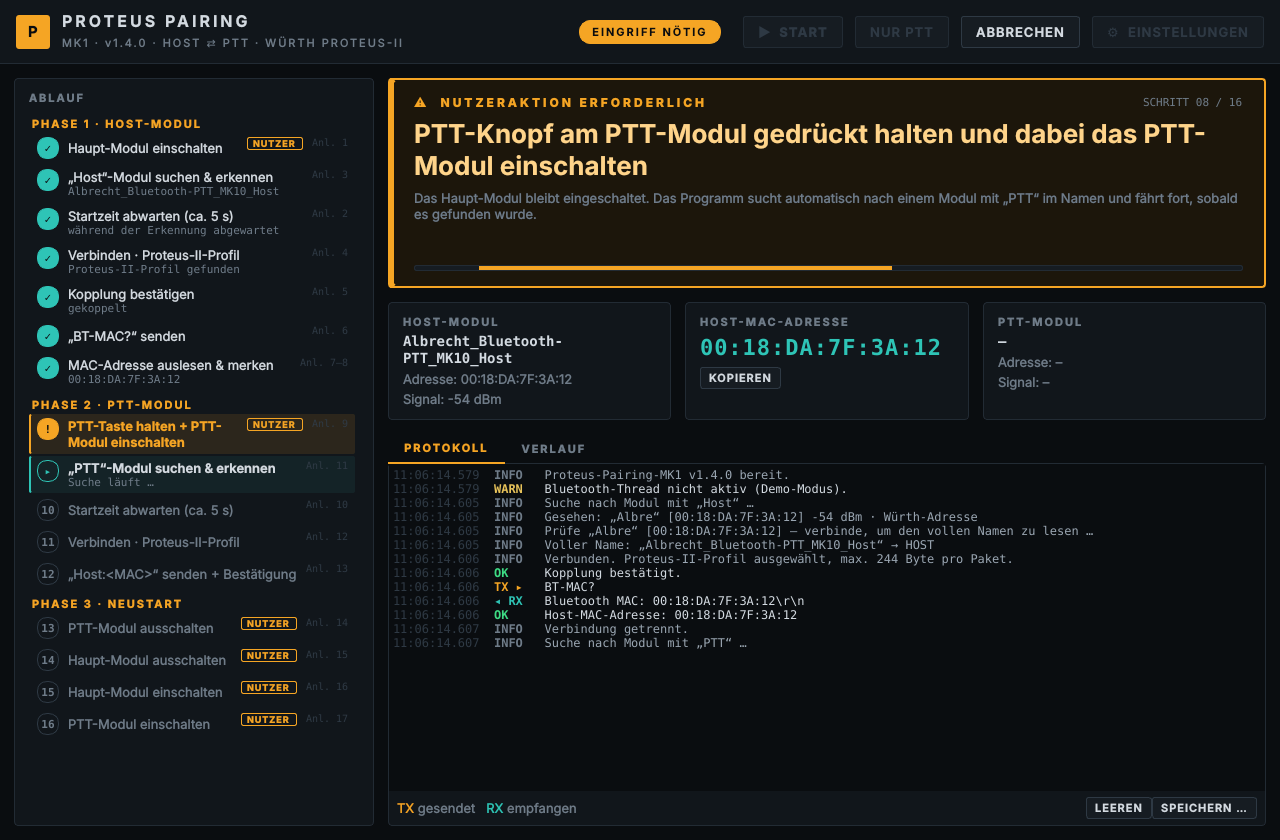
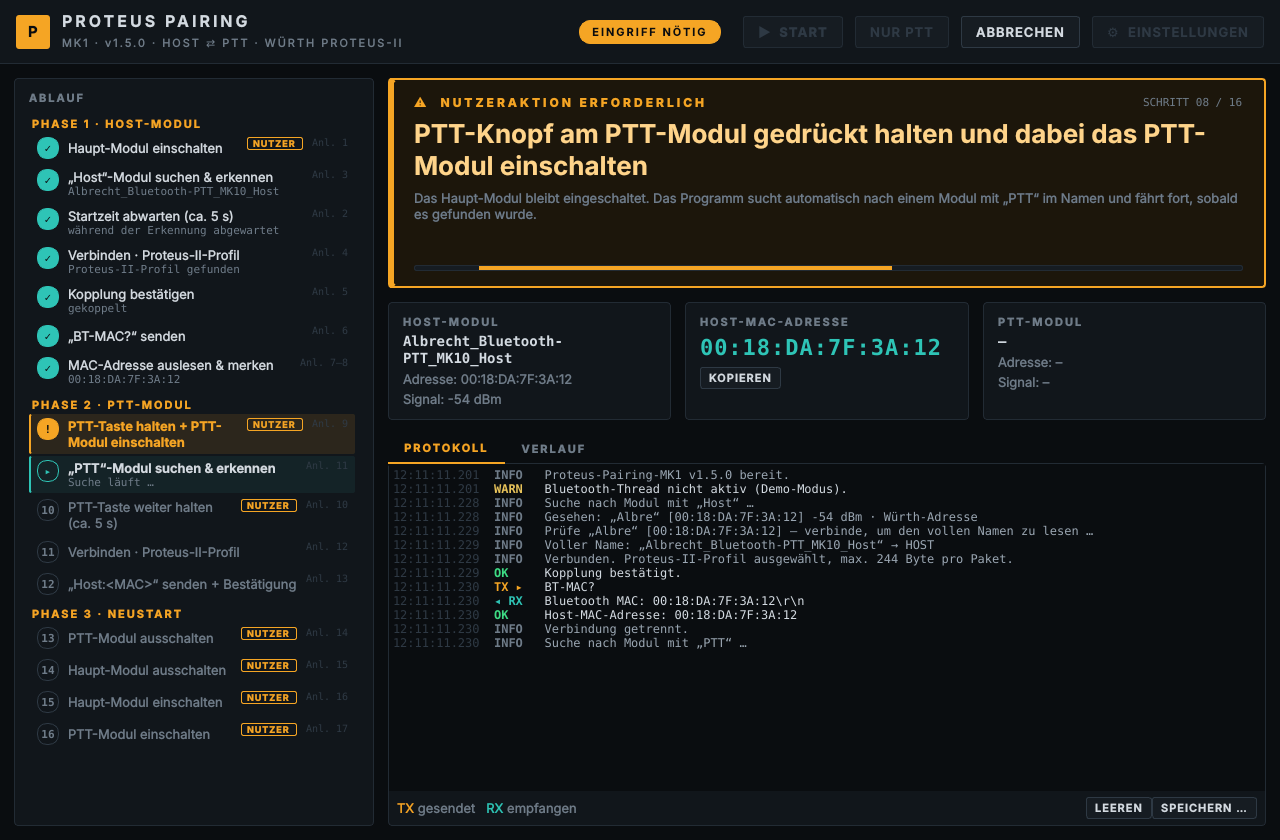
v1.5.0
v1.5.0: PTT-Einstellmodus – Haltezeit anzeigen und Normalbetrieb erkennen

- Ursache gefunden: PTT-Taste zu kurz gehalten -> Modul im Normalbetrieb,
  ignoriert "Host:<MAC>"; im Einstellmodus verlangt es eine Kopplung
- nach dem Erkennen des PTT-Moduls: "PTT-Taste weiter gedrückt halten" mit
  Balken (Standard 5 s), danach "PTT-Taste jetzt loslassen" (Anleitung Schritt 9/10)
- keine Kopplungsanfrage + keine Bestätigung -> sofortiger Abbruch mit Anweisung
  statt alle Sendevarianten zu probieren (Windows, abschaltbar)
- Einstellungen: "PTT-Taste halten", "PTT-Einstellmodus an der Kopplungsanfrage erkennen"
- README aktualisiert

Changed region(s): [[0.0312, 0.5881, 0.25, 0.8976], [0.3125, 0.5571, 0.375, 0.7738], [0.2188, 0.031, 0.2812, 0.0619]]

diff --git a/app/engine.py b/app/engine.py
@@ -77,7 +77,8 @@ def build_steps(s: Settings) -> list[Step]:
         Step("h_mac", "A", "MAC-Adresse auslesen & merken", False, "7–8"),
         Step("p_power", "B", "PTT-Taste halten + PTT-Modul einschalten", True, "9"),
         Step("p_scan", "B", f"„{s.marker_ptt}“-Modul suchen & erkennen", False, "11"),
-        Step("p_wait", "B", f"Startzeit abwarten (ca. {s.boot_wait_s:g} s)", False, "10"),
+        Step("p_wait", "B", f"PTT-Taste weiter halten (ca. {s.ptt_hold_s:g} s)" if s.ptt_hold_s > 0
+             else f"Startzeit abwarten (ca. {s.boot_wait_s:g} s)", s.ptt_hold_s > 0, "10"),
         Step("p_connect", "B", "Verbinden · Proteus-II-Profil", False, "12"),
         Step("p_send", "B", f"„{s.cmd_ptt_prefix}<MAC>“ senden + Bestätigung", False, "13"),
         Step("r_ptt_off", "C", "PTT-Modul ausschalten", True, "14"),
@@ -126,6 +127,7 @@ class PairingEngine:
         self._auth_failed: set[str] = set()   # Adressen mit abgelehnter Authentifizierung
         self._cur_name: str = ""
         self._cur_dev = None
+        self._auth_demanded = False   # hat das aktuelle Modul eine Kopplung verlangt?
 
     # ------------------------------------------------------------------ UI-Hilfen
     def respond(self, choice: str) -> None:
@@ -275,12 +277,14 @@ class PairingEngine:
     async def _phase_ptt(self) -> None:
         s = self.s
         self.ui.on_device("ptt", None)
+        self._auth_demanded = False
         self._step("p_power", "user")
         self._step("p_scan", "active", "Suche läuft …")
         self._show("user", "NUTZERAKTION ERFORDERLICH",
                    "PTT-Knopf am PTT-Modul gedrückt halten und dabei das PTT-Modul einschalten",
-                   hint=f"Das Haupt-Modul bleibt eingeschaltet. Ist das PTT-Modul noch an: erst "
-                        f"ausschalten. Das Programm erkennt das Einschalten automatisch und fährt fort.",
+                   hint=f"Ist das PTT-Modul noch an: erst ausschalten. Die Taste gedrückt lassen, bis "
+                        f"das Programm „loslassen“ anzeigt (ca. {s.ptt_hold_s:g} s nach dem Erkennen). "
+                        f"Das Haupt-Modul bleibt eingeschaltet.",
                    step="p_power")
         exclude = {self.host_info["address"]} if self.host_info else set()
         info, client = await self._acquire("ptt", exclude, "p_power", "p_scan", "p_wait", "p_connect",
@@ -335,6 +339,12 @@ class PairingEngine:
             got = _visible(self._rx_buf.strip())
             self._log("warn", f"Keine Bestätigung „{confirm}“ erhalten"
                               + (f" (Antwort: „{got}“)." if got else " (keine Antwort)."))
+            if i == 1 and await self._ptt_not_in_setup_mode(client):
+                raise ProcessError(
+                    "Das PTT-Modul ist offenbar nicht im Einstellmodus: Es hat keine Kopplung verlangt "
+                    "und den Befehl nicht bestätigt. Bitte PTT-Modul ausschalten, PTT-Taste gedrückt "
+                    "halten, einschalten und die Taste halten, bis das Programm „loslassen“ anzeigt. "
+                    "Dann „PTT-Teil wiederholen“.")
         if self._rx_buf.strip():
             self._log("info", f"Antwort PTT-Modul: {_visible(self._rx_buf.strip())}")
         if ok_variant is None:
@@ -348,6 +358,21 @@ class PairingEngine:
         self._log("ok", "PTT-Modul hat die Host-MAC gespeichert." if confirm else "Host-MAC gesendet.")
         self._step("p_send", "done", "bestätigt" if confirm else "gesendet")
         await self._finish_client(client)
+
+    async def _ptt_not_in_setup_mode(self, client: BleakClient) -> bool:
+        """Im Einstellmodus verlangt das PTT-Modul eine Kopplung. Blieb die aus (und Windows hat
+        keine gültige Kopplung, die sie ersetzt hätte), läuft das Modul im Normalbetrieb."""
+        s = self.s
+        if not (s.ptt_expect_pairing and winpair.AVAILABLE) or s.pair_ptt or self._auth_demanded:
+            return False
+        try:
+            paired = await winpair.is_paired(client.address)
+        except Exception:
+            return False
+        if not paired:
+            self._log("warn", "Das PTT-Modul hat keine Kopplung verlangt – im Einstellmodus tut es das. "
+                              "Vermutlich wurde die PTT-Taste nicht lange genug gehalten.")
+        return not paired
 
     def _ptt_variants(self) -> list[dict]:
         """Varianten, wie Handy-Apps senden – nacheinander probieren, bis das Modul bestätigt."""
@@ -429,6 +454,10 @@ class PairingEngine:
         info = dict(name=name, address=dev.address, rssi=adv.rssi)
         self.ui.on_device(role, info)
         waited = client is not None   # bei der Namensprüfung wurde die Startzeit schon abgewartet
+        if role == "ptt" and self.s.ptt_hold_s > 0:
+            # Anleitung Schritt 9/10: Taste beim Einschalten halten, ca. 5 s warten
+            await self._hold_countdown(sid_wait)
+            waited = True
 
         # Veraltete Windows-Kopplung entfernen (wie beim Handy wird danach neu gekoppelt)
         if winpair.AVAILABLE and self.s.repair_fresh and (do_pair or dev.address in self._auth_failed):
@@ -783,6 +812,29 @@ class PairingEngine:
         except Exception:
             pass
 
+    async def _hold_countdown(self, sid: str):
+        secs = max(0.0, self.s.ptt_hold_s)
+        self._step(sid, "user", "Taste halten")
+        self.ui.on_action(dict(
+            mode="user", title="NUTZERAKTION ERFORDERLICH",
+            text="PTT-Taste weiter gedrückt halten",
+            hint=f"PTT-Modul erkannt. Taste noch ca. {secs:g} s halten, bis hier „loslassen“ "
+                 f"erscheint (Balken unten).",
+            buttons=[], step=sid, busy=False))
+        loop = asyncio.get_running_loop()
+        t0 = loop.time()
+        while (el := loop.time() - t0) < secs:
+            self.ui.on_progress(int(el * 10), int(secs * 10))
+            await asyncio.sleep(0.1)
+        self.ui.on_progress(int(secs * 10), max(1, int(secs * 10)))
+        self.ui.on_action(dict(
+            mode="user", title="NUTZERAKTION ERFORDERLICH", text="PTT-Taste jetzt loslassen",
+            hint="Das Programm verbindet sich gleich automatisch mit dem PTT-Modul.",
+            buttons=[], step=sid, busy=True))
+        self._log("info", f"PTT-Taste {secs:g} s gehalten – Taste kann losgelassen werden.")
+        await asyncio.sleep(1.5)
+        self._step(sid, "done", f"Taste {secs:g} s gehalten")
+
     async def _countdown(self, sid: str, text: str):
         secs = max(0.0, self.s.boot_wait_s)
         self._step(sid, "active")
@@ -855,6 +907,7 @@ class PairingEngine:
             except Exception as exc:
                 if _is_auth_error(exc):
                     self._auth_failed.add(client.address)
+                    self._auth_demanded = True
                     if not winpair.AVAILABLE or fresh_paired:
                         raise ProcessError(self._auth_text(exc))
                     # Einmal automatisch: alte Kopplung entfernen, neu koppeln, erneut öffnen

diff --git a/app/gui.py b/app/gui.py
@@ -264,6 +264,10 @@ class SettingsDialog(QDialog):
         self.retr.setValue(s.retries)
         f3.addRow("Startzeit nach Erkennen:", self.boot)
         f3.addRow("Max. Suchdauer:", self.scan)
+        self.hold = self._dspin(s.ptt_hold_s, 0, 30, " s")
+        self.hold.setToolTip("So lange soll die PTT-Taste nach dem Erkennen des Moduls noch gehalten werden.\n"
+                             "Das Programm zeigt dazu einen Balken und danach „loslassen“.")
+        f3.addRow("PTT-Taste halten:", self.hold)
         self.sdelay = self._dspin(s.send_delay_s, 0, 10, " s")
         f3.addRow("Wartezeit vor dem Senden:", self.sdelay)
         f3.addRow("Antwort-Timeout:", self.resp)
@@ -294,12 +298,16 @@ class SettingsDialog(QDialog):
         self.fresh_ptt.setChecked(s.ptt_require_fresh)
         self.fresh_ptt.setToolTip("Ist das PTT-Modul beim Start von Phase 2 schon eingeschaltet (Normalbetrieb),\n"
                                   "wartet das Programm, bis es mit gedrückter PTT-Taste neu eingeschaltet wurde.")
+        self.expect_pair = QCheckBox("PTT-Einstellmodus an der Kopplungsanfrage erkennen (Windows)")
+        self.expect_pair.setChecked(s.ptt_expect_pairing)
+        self.expect_pair.setToolTip("Im Einstellmodus verlangt das PTT-Modul eine Kopplung. Bleibt sie aus und der\n"
+                                    "Befehl unbestätigt, bricht das Programm sofort mit einer Anweisung ab.")
         self.confirm = QCheckBox("Neustart-Schritte 14–17 einzeln bestätigen")
         self.confirm.setChecked(s.confirm_restart_steps)
         for w in (self.p_host, self.p_ptt, self.fresh):
             v4.addWidget(w)
         v4.addLayout(pk_row)
-        for w in (self.unpair, self.fresh_ptt, self.confirm):
+        for w in (self.unpair, self.fresh_ptt, self.expect_pair, self.confirm):
             v4.addWidget(w)
         root.addWidget(g4)
 
@@ -344,6 +352,7 @@ class SettingsDialog(QDialog):
         self.fresh_ptt.setChecked(d.ptt_require_fresh)
         self.wmode.setCurrentText(d.write_mode); self.psize.setValue(d.packet_size)
         self.variants.setChecked(d.try_variants)
+        self.hold.setValue(d.ptt_hold_s); self.expect_pair.setChecked(d.ptt_expect_pairing)
 
     def result_settings(self) -> Settings:
         s = Settings(
@@ -372,6 +381,8 @@ class SettingsDialog(QDialog):
             write_mode=self.wmode.currentText(),
             packet_size=self.psize.value(),
             try_variants=self.variants.isChecked(),
+            ptt_hold_s=self.hold.value(),
+            ptt_expect_pairing=self.expect_pair.isChecked(),
         )
         return s
 

diff --git a/app/config.py b/app/config.py
@@ -10,7 +10,7 @@ from datetime import datetime
 from pathlib import Path
 
 APP_NAME = "Proteus-Pairing-MK1"
-APP_VERSION = "1.4.0"
+APP_VERSION = "1.5.0"
 
 
 def data_dir() -> Path:
@@ -69,6 +69,8 @@ class Settings:
     pair_host: bool = True
     pair_ptt: bool = False
     ptt_require_fresh: bool = True       # PTT-Modul erst nach Aus-/Einschalten verwenden
+    ptt_hold_s: float = 5.0              # PTT-Taste nach dem Erkennen noch so lange halten (Anleitung Schritt 10)
+    ptt_expect_pairing: bool = True      # Einstellmodus erkennbar an Kopplungsanfrage des PTT-Moduls
     repair_fresh: bool = True            # Windows: vorhandene (evtl. veraltete) Kopplung vorher entfernen
     passkey: str = "123123"              # falls das Modul einen Passkey verlangt (Proteus-II-Standard)
     unpair_after: bool = False

diff --git a/README.md b/README.md
@@ -1,6 +1,6 @@
 # Proteus-Pairing-MK1
 
-**Version 1.4.0** · Desktop-Programm für Windows und macOS (keine Web-App)
+**Version 1.5.0** · Desktop-Programm für Windows und macOS (keine Web-App)
 
 Arbeitet den Paarungsablauf zwischen einem **Host-Modul** und einem **PTT-Modul** mit
 Würth-Elektronik-**Proteus-II**-Bluetooth-Modulen automatisch ab – über die Bluetooth-Schnittstelle
@@ -30,6 +30,12 @@ des PCs/Macs. Das Programm ersetzt die Bedienung der Proteus-App auf dem Smartph
   schon an, fordert das Programm zum Aus-/Einschalten auf und erkennt das automatisch.
   „Fertig“ gibt es erst, wenn das Modul mit „Neue Host MAC gespeichert“ antwortet –
   sonst Wiederholung bzw. klare Fehlermeldung.
+- **PTT-Taste richtig lange halten:** Sobald das PTT-Modul erkannt ist, zeigt das
+  Programm „PTT-Taste weiter gedrückt halten“ mit ablaufendem Balken (5 s) und danach
+  „PTT-Taste jetzt loslassen“ (Anleitung Schritt 9/10).
+- **Einstellmodus erkennen:** Im Einstellmodus verlangt das PTT-Modul eine Kopplung.
+  Bleibt die aus und wird der Befehl nicht bestätigt, lief das Modul im Normalbetrieb –
+  das Programm bricht dann sofort mit einer klaren Anweisung ab (Windows).
 - **Sendevarianten automatisch:** Bestätigt das PTT-Modul nicht, probiert das Programm
   nacheinander, wie Handy-Apps senden: ohne Antwort schreiben, 20-Byte-Pakete
   (Standard-MTU), CR+LF, Kopplung mit dem PTT-Modul, ohne 0x01-Header. Die Variante,
@@ -61,7 +67,7 @@ des PCs/Macs. Das Programm ersetzt die Bedienung der Proteus-App auf dem Smartph
 | MAC-Adresse auslesen & merken | 7–8 | automatisch |
 | PTT-Taste halten + PTT-Modul einschalten | 9 | **Nutzer** (geht automatisch weiter, sobald das Modul gefunden wurde) |
 | „PTT“-Modul suchen & erkennen | 11 | automatisch |
-| Startzeit abwarten (ca. 5 s) | 10 | automatisch |
+| PTT-Taste weiter halten (ca. 5 s) | 10 | **Nutzer** (Balken, danach „loslassen“) |
 | Verbinden · Proteus-II-Profil | 12 | automatisch |
 | „Host:&lt;MAC&gt;“ senden + Bestätigung | 13 | automatisch (wartet auf „… gespeichert“) |
 | PTT-Modul aus / Haupt-Modul aus / Haupt-Modul ein / PTT-Modul ein | 14–17 | **Nutzer** (je „Erledigt“) |
@@ -76,9 +82,9 @@ Per GitHub Actions entstehen (Reiter **Actions** → letzter Lauf, bzw. bei eine
 
 | Datei | Inhalt |
 |---|---|
-| `Proteus-Pairing-MK1-v1.4.0-windows.exe` | **nur die exe** – herunterladen und starten |
-| `Proteus-Pairing-MK1-v1.4.0.zip` | Gesamtpaket: Windows-exe, macOS-App, README, Paarungsanleitung |
-| `Proteus-Pairing-MK1-Offline-Build-Kit-v1.4.0.zip` | Offline-Build-Kit (siehe unten) |
+| `Proteus-Pairing-MK1-v1.5.0-windows.exe` | **nur die exe** – herunterladen und starten |
+| `Proteus-Pairing-MK1-v1.5.0.zip` | Gesamtpaket: Windows-exe, macOS-App, README, Paarungsanleitung |
+| `Proteus-Pairing-MK1-Offline-Build-Kit-v1.5.0.zip` | Offline-Build-Kit (siehe unten) |
 
 > Hinweis: Unter **Actions** packt GitHub jedes Artefakt beim Herunterladen immer in eine
 > ZIP-Hülle (`…-windows-exe.zip`, darin nur die exe). Im **Release** liegt die exe direkt.
@@ -109,6 +115,8 @@ Einstellungen, Verlauf (`verlauf.csv`), Namensspeicher (`namen_cache.json`) und 
 | Proteus-II-Datenheader 0x01 | an | Proteus-II-Profil: jedes Datenpaket beginnt mit 0x01 |
 | Startzeit nach Erkennen | 5 s | „ca. 5 s warten“ |
 | Max. Suchdauer | 120 s | danach Fehlermeldung mit „Wiederholen“ |
+| PTT-Taste halten | 5 s | so lange nach dem Erkennen des PTT-Moduls weiter halten (Balken, dann „loslassen“) |
+| PTT-Einstellmodus an der Kopplungsanfrage erkennen | an | ohne Kopplungsanfrage + ohne Bestätigung → sofort Hinweis „Taste länger halten“ |
 | Wartezeit vor dem Senden | 1 s | nach dem Öffnen des Datenkanals, bevor ein Befehl gesendet wird |
 | Antwort-Timeout / Wiederholungen | 5 s / 3 | für MAC-Abfrage und PTT-Bestätigung |
 | Kopplung Host / PTT | an / aus | Kopplung anfordern (Schritt 5) |

diff --git a/offline_build_kit/ANLEITUNG.md b/offline_build_kit/ANLEITUNG.md
@@ -148,7 +148,7 @@ Voraussetzungen auf dem Offline-Mac:
    ```
    fertige_app/
    ├── Proteus-Pairing-MK1.app                 <- direkt starten
-   └── Proteus-Pairing-MK1-v1.4.0-macOS.zip    <- zum Weitergeben
+   └── Proteus-Pairing-MK1-v1.5.0-macOS.zip    <- zum Weitergeben
    ```
    Die App gilt für den Prozessor des Build-Macs (Apple Silicon bzw. Intel).
 
